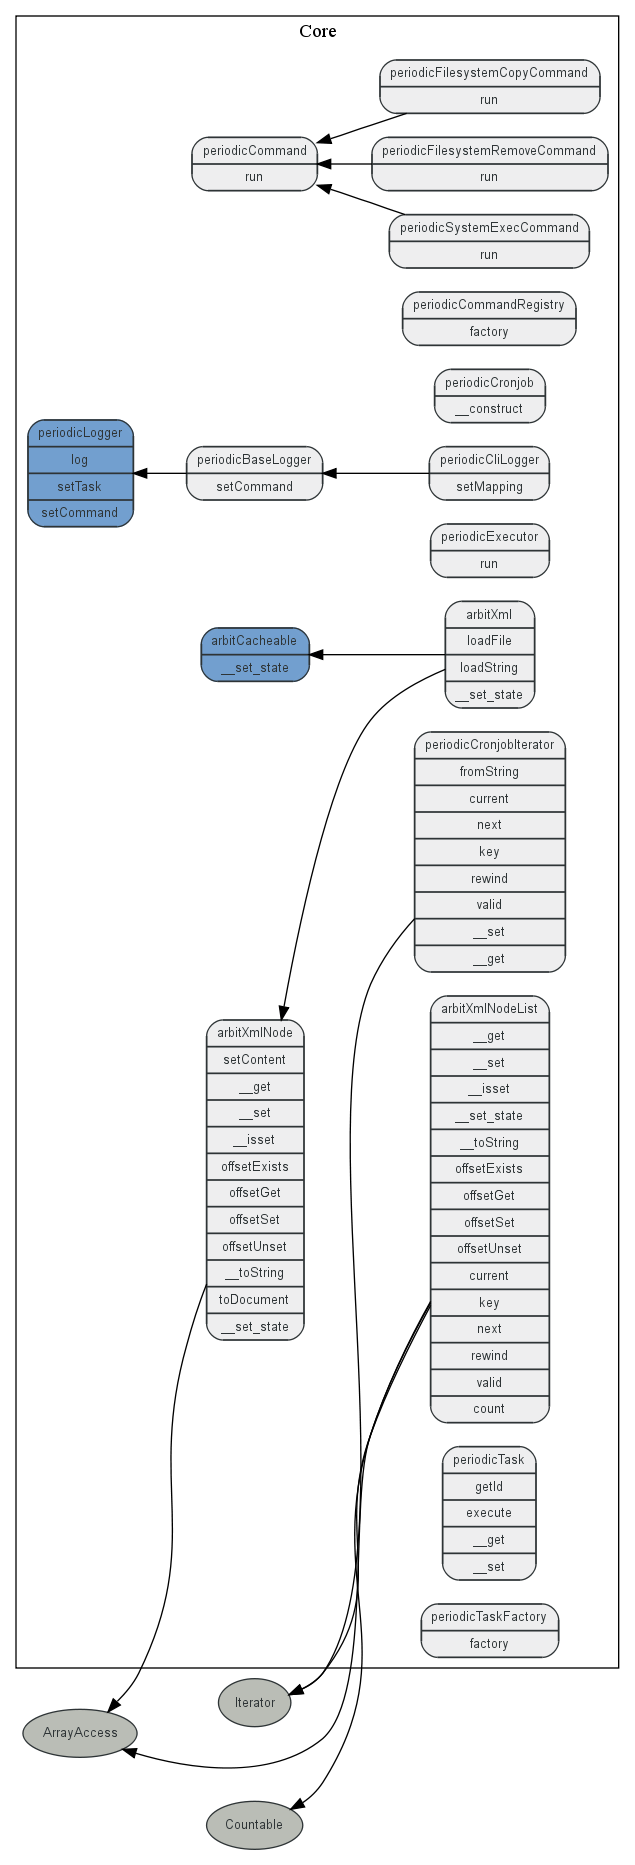
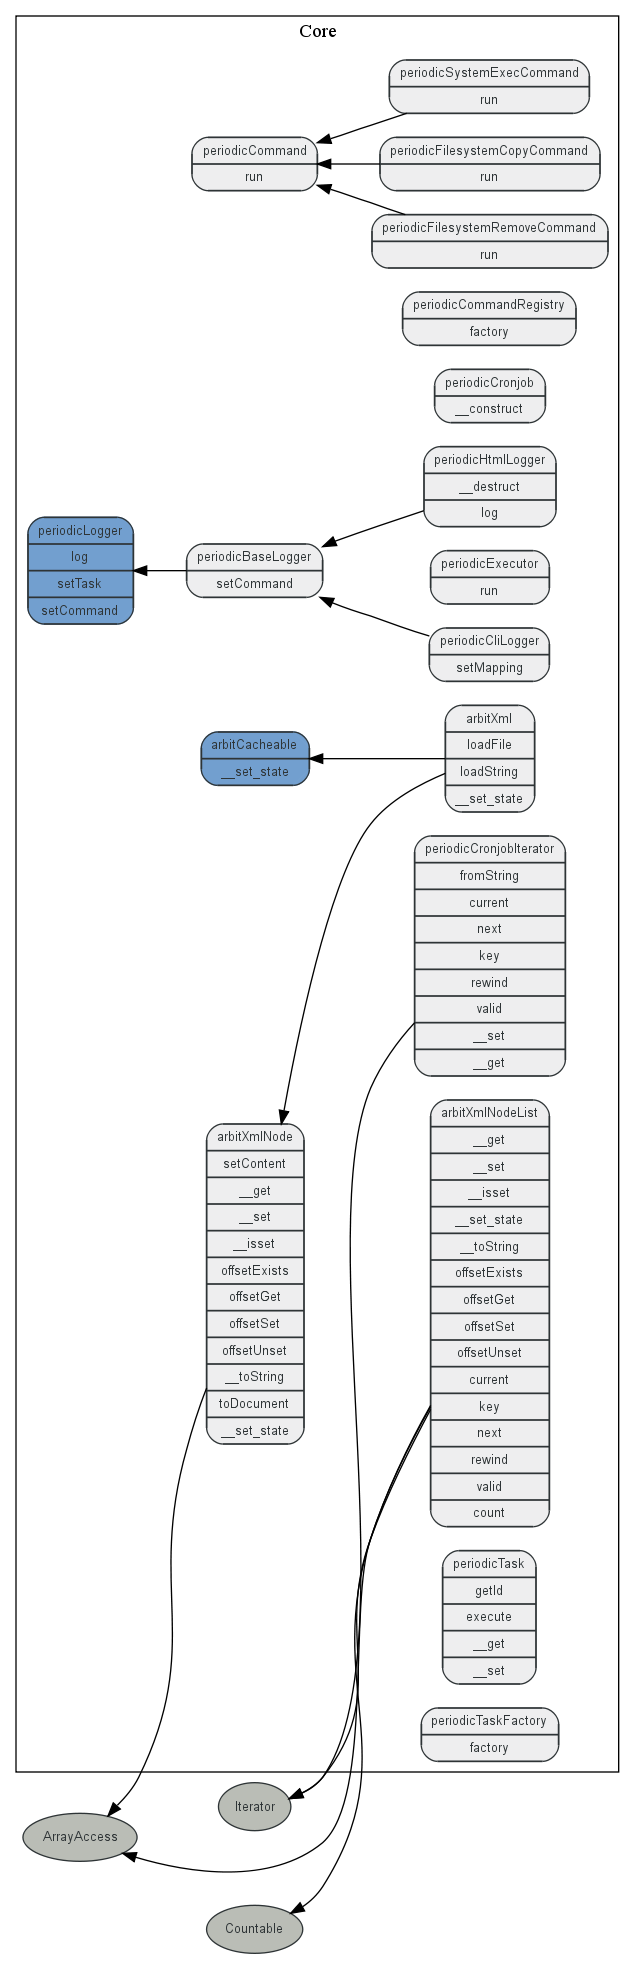
- Implemented: HTML logger - Implemented: Web runner

diff --git a/src/classes/logger/html.php b/src/classes/logger/html.php
@@ -1,0 +1,118 @@
+<?php
+/**
+ * Autoload file
+ *
+ * This file is part of periodic
+ *
+ * periodic is free software; you can redistribute it and/or modify it under
+ * the terms of the GNU Lesser General Public License as published by the Free
+ * Software Foundation; version 3 of the License.
+ *
+ * periodic is distributed in the hope that it will be useful, but WITHOUT ANY
+ * WARRANTY; without even the implied warranty of MERCHANTABILITY or FITNESS
+ * FOR A PARTICULAR PURPOSE.  See the GNU Lesser General Public License for
+ * more details.
+ *
+ * You should have received a copy of the GNU Lesser General Public License
+ * along with periodic; if not, write to the Free Software Foundation, Inc., 51
+ * Franklin St, Fifth Floor, Boston, MA  02110-1301  USA
+ *
+ * @package Core
+ * @version $Revision: 999 $
+ * @license http://www.gnu.org/licenses/lgpl-3.0.txt LGPL
+ */
+
+/**
+ * Web HTML logger
+ *
+ * Logger which generates HTML output from the logged messages, so the return
+ * value can be viewed using a web browser.
+ */
+class periodicHtmlLogger extends periodicBaseLogger
+{
+    /**
+     * Colors associated with severities
+     * 
+     * @var array
+     */
+    protected $colors = array(
+        periodicLogger::INFO    => '#4e9a06',
+        periodicLogger::WARNING => '#edd400',
+        periodicLogger::ERROR   => '#cc0000',
+    );
+
+    /**
+     * Construct logger
+     *
+     * Creates and echos the proper HTML header to embed the further output in.
+     * 
+     * @return void
+     */
+    public function __construct()
+    {
+        echo <<<HTMLHEAD
+<?xml version="1.0"?>
+<!DOCTYPE html PUBLIC "-//W3C//DTD XHTML 1.1 Strict//EN"
+    "http://www.w3.org/TR/xhtml1/DTD/xhtml1-strict.dtd">
+<html xmlns="http://www.w3.org/1999/xhtml">
+<head>
+    <meta http-equiv="Content-Type" content="text/html; charset=utf-8" />
+    <title>Periodic - Web runner</title>
+</head>
+<body>
+    <h1>Periodic - Web runner</h1>
+    <ul>
+
+HTMLHEAD;
+    }
+
+    /**
+     * Destruct logger
+     *
+     * Creates and echos the proper HTML footer.
+     * 
+     * @return void
+     */
+    public function __destruct()
+    {
+        echo <<<HTMLFOOTER
+    </ul>
+</body>
+</html>
+
+HTMLFOOTER;
+    }
+
+    /**
+     * Log message
+     *
+     * Log a message, while the message must be convertable into a string.
+     * Optionally a log message severity can be specified.
+     * 
+     * @param string $message 
+     * @param int $severity 
+     * @return void
+     */
+    public function log( $message, $severity = self::INFO )
+    {
+        printf( "        <li>
+            <span style=\"color: #babdb6\">%s</span> %s
+            <span style=\"color: %s; font-weight: bold;\">%s:</span> %s
+        </li>\n",
+            date( DATE_RFC1036 ),
+            ( $this->task ? 
+                $this->task . ( 
+                    $this->command ?
+                        '::' . $command :
+                        ''
+                . ' ' ) :
+                ''
+            ),
+            $this->colors[$severity],
+            $this->names[$severity],
+            $message
+        );
+        flush();
+    }
+}
+

diff --git a/src/web.php b/src/web.php
@@ -1,0 +1,61 @@
+#!/usr/bin/env php
+<?php
+/**
+ * Web runner
+ *
+ * This file is part of periodic
+ *
+ * periodic is free software; you can redistribute it and/or modify it under
+ * the terms of the GNU Lesser General Public License as published by the Free
+ * Software Foundation; version 3 of the License.
+ *
+ * periodic is distributed in the hope that it will be useful, but WITHOUT ANY
+ * WARRANTY; without even the implied warranty of MERCHANTABILITY or FITNESS
+ * FOR A PARTICULAR PURPOSE.  See the GNU Lesser General Public License for
+ * more details.
+ *
+ * You should have received a copy of the GNU Lesser General Public License
+ * along with periodic; if not, write to the Free Software Foundation, Inc., 51
+ * Franklin St, Fifth Floor, Boston, MA  02110-1301  USA
+ *
+ * @package Core
+ * @version $Revision: 999 $
+ * @license http://www.gnu.org/licenses/lgpl-3.0.txt LGPL
+ */
+
+/**
+ * This file contains the web runner for periodic
+ *
+ * It may be called in any interval, and will execute all jobs which are open
+ * since the last call. It will output messages in HTML, so it can easily be
+ * viewed inside any browser.
+ *
+ * Configure proper data and task directories directly in this script.
+ */
+
+$dataDir     = 'data/';
+$taskDir     = 'tasks/';
+$crontable = <<<EOCRON
+# * * * * * myTask
+EOCRON;
+
+// Include environment, declaring error handler and autoload function
+require dirname( __FILE__ ) . '/base.php';
+
+try
+{
+    // Instantiate executor
+    $executor = new periodicExecutor(
+        $crontable,
+        new periodicTaskFactory( $taskDir ),
+        new periodicHtmlLogger(),
+        $dataDir
+    );
+    $executor->run();
+}
+catch ( Exception $e )
+{
+    header( 'HTTP/1.1 500 Internal Server Error' );
+    echo $e->getMessage();
+}
+

diff --git a/src/classes/autoload.php b/src/classes/autoload.php
@@ -53,6 +53,7 @@ return array(
     'periodicLogger'                  => 'logger.php',
     'periodicBaseLogger'              => 'logger/base.php',
     'periodicCliLogger'               => 'logger/cli.php',
+    'periodicHtmlLogger'              => 'logger/html.php',
     'periodicTask'                    => 'task.php',
     'periodicTaskFactory'             => 'task_factory.php',
 );
